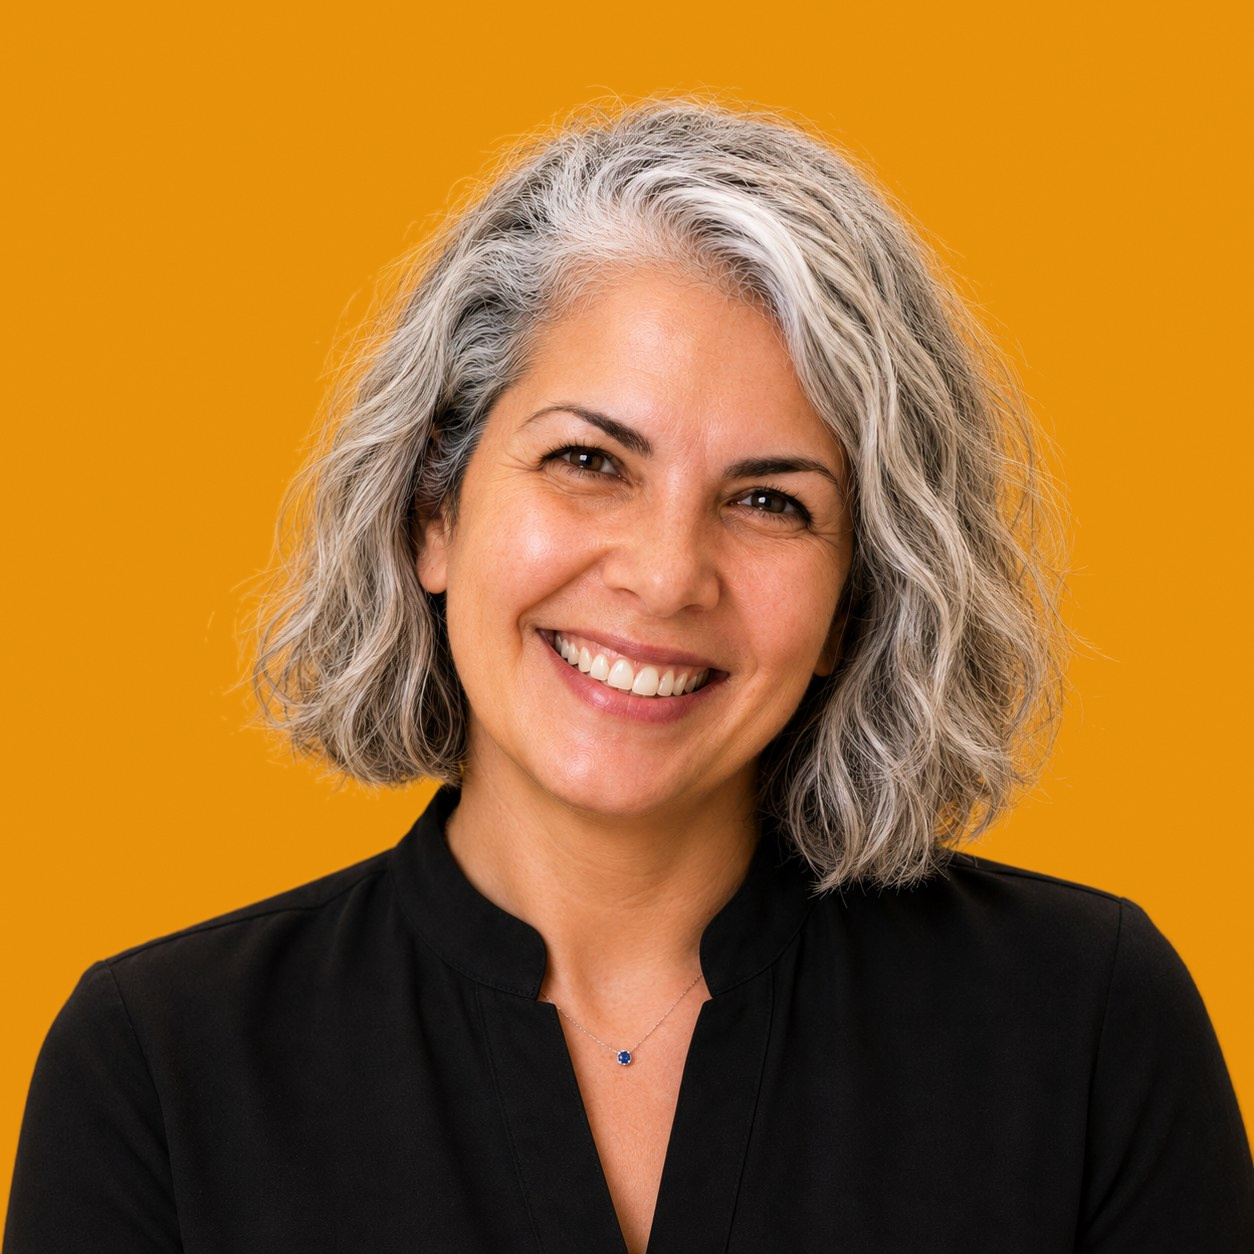
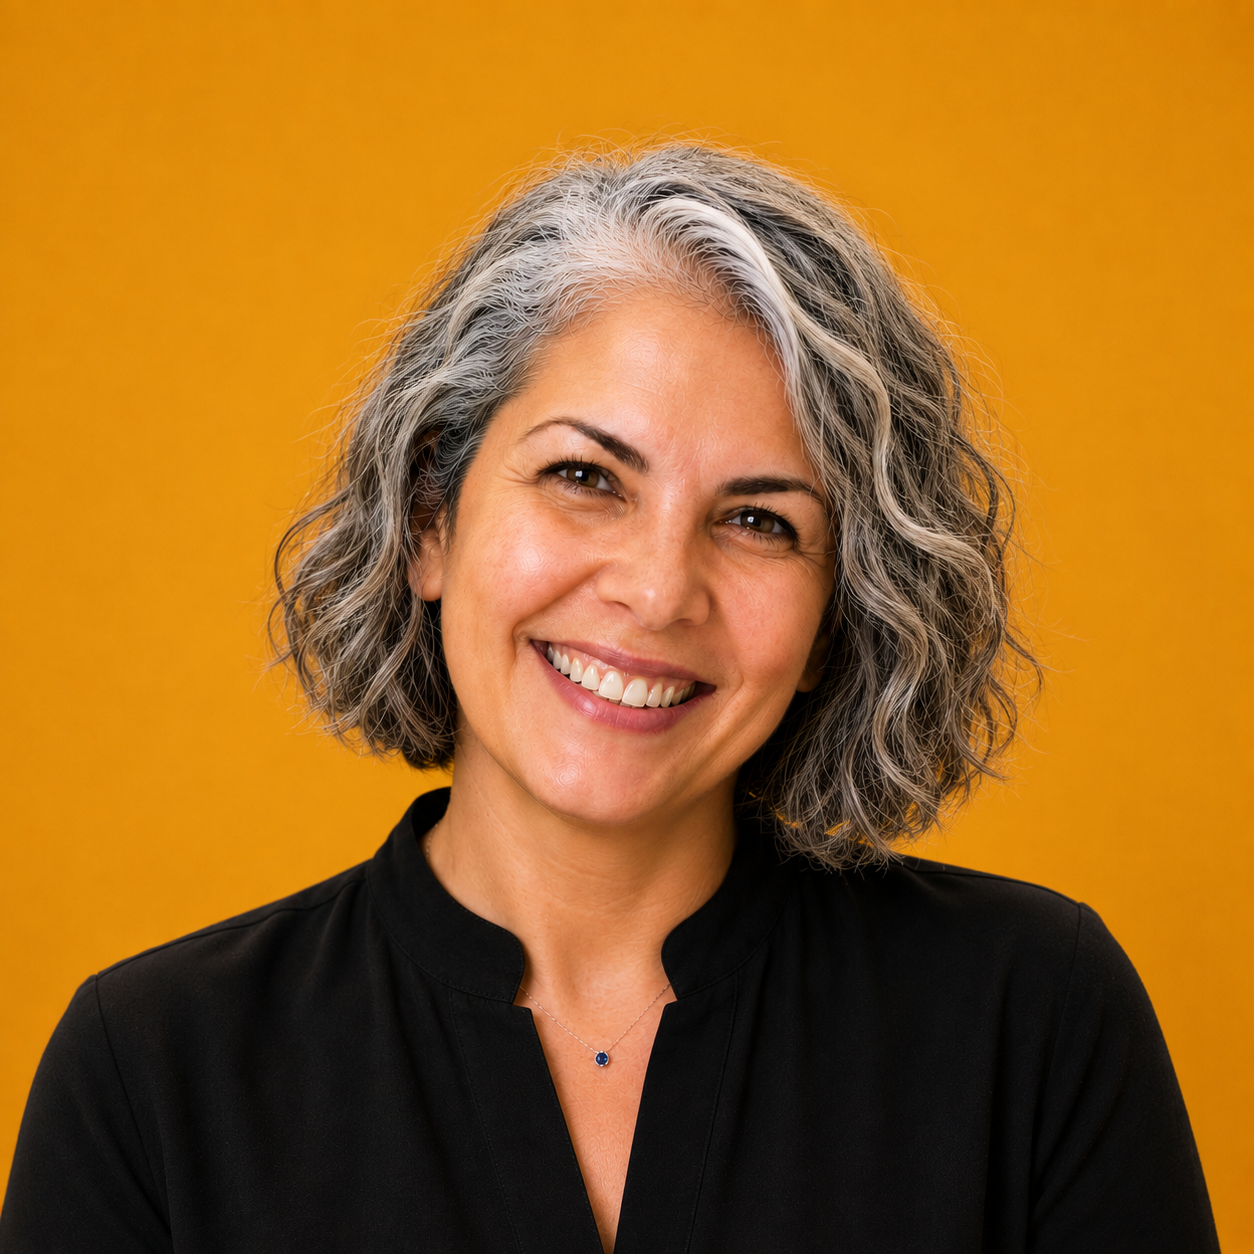
Restore the offset circular portrait frame.
Use the uploaded studio photo in the circular crop with the thin shifted halo.

diff --git a/index.html b/index.html
@@ -39,7 +39,7 @@
       href="https://fonts.googleapis.com/css2?family=Fraunces:ital,opsz,wght@0,9..144,400;0,9..144,560;0,9..144,680;1,9..144,480&family=Outfit:wght@380;450;550;650&display=swap"
       rel="stylesheet"
     />
-    <link rel="stylesheet" href="styles.css?v=6" />
+    <link rel="stylesheet" href="styles.css?v=7" />
 
     <script type="application/ld+json">
       {
@@ -63,7 +63,7 @@
     <header class="site-header" data-header>
       <div class="wrap header-inner">
         <a class="wordmark" href="#top" aria-label="Lilia Dassine Belaïd Bründler, home">
-          <img src="images/me.png?v=5" alt="" width="36" height="36" />
+          <img src="images/me.jpg?v=7" alt="" width="36" height="36" />
           <span class="wordmark-lockup">
             <span class="wordmark-brand">LD BB</span>
             <span class="wordmark-rest">DEVELOPMENT</span>
@@ -119,7 +119,7 @@
           <figure class="hero-portrait" data-reveal data-delay="2">
             <div class="portrait-frame">
               <img
-                src="images/me.png?v=5"
+                src="images/me.jpg?v=7"
                 alt="Portrait of Lilia Dassine Belaïd Bründler"
                 width="1254"
                 height="1254"

diff --git a/404.html b/404.html
@@ -14,7 +14,7 @@
       href="https://fonts.googleapis.com/css2?family=Fraunces:ital,opsz,wght@0,9..144,560;1,9..144,480&family=Outfit:wght@380;450;550&display=swap"
       rel="stylesheet"
     />
-    <link rel="stylesheet" href="styles.css?v=6" />
+    <link rel="stylesheet" href="styles.css?v=7" />
   </head>
   <body>
     <main class="lost">

diff --git a/styles.css b/styles.css
@@ -388,9 +388,9 @@ ol {
 .hero-portrait::before {
   content: "";
   position: absolute;
-  inset: -0.55rem;
-  border: 1.5px solid var(--accent);
-  border-radius: 50%;
+  inset: -0.7rem -1rem 0.85rem 1rem;
+  border: 1px solid color-mix(in srgb, var(--accent) 70%, transparent);
+  border-radius: 999px;
   pointer-events: none;
 }
 
